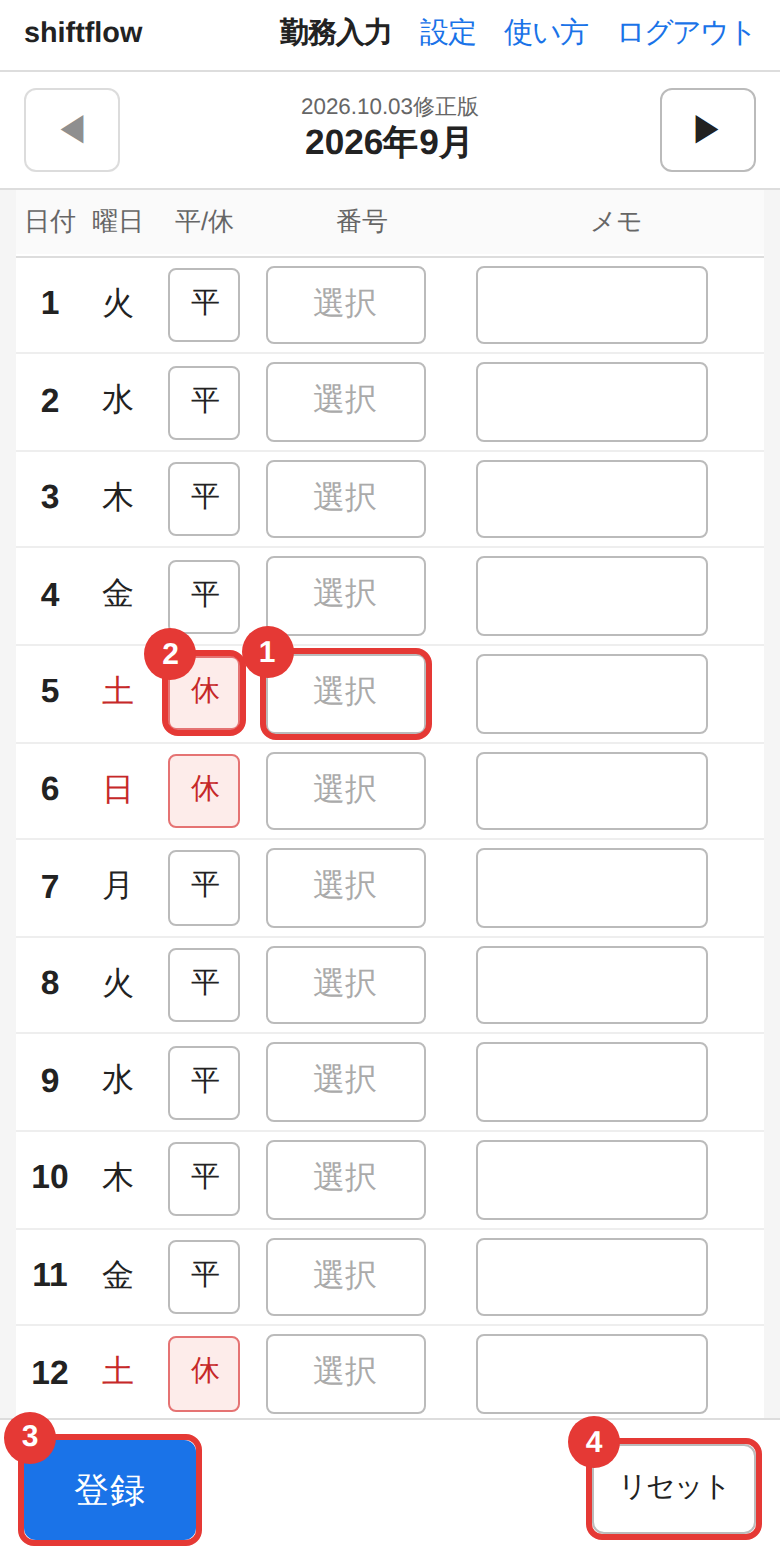
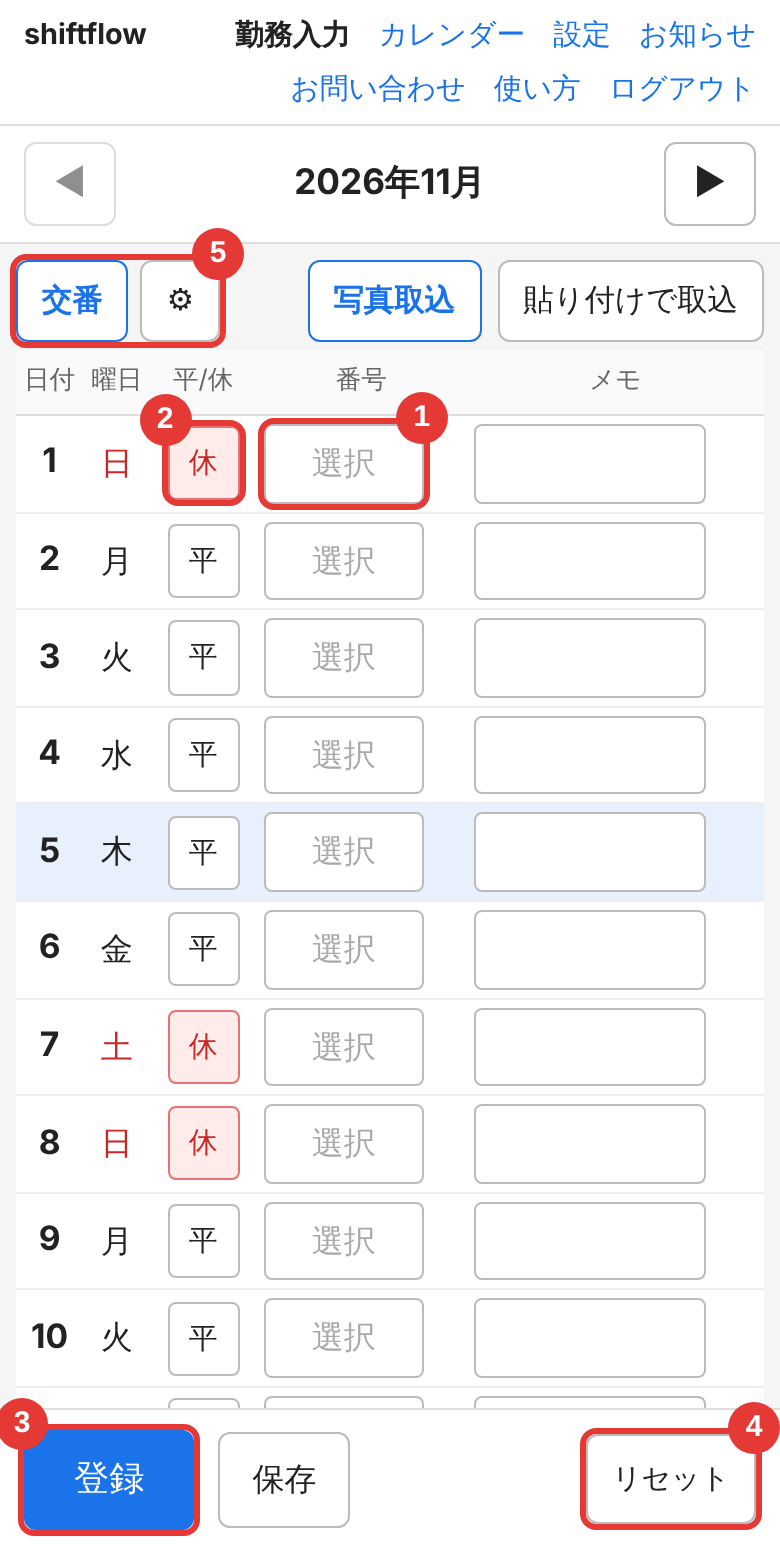
使い方: 勤務入力の画面の画像を今の画面で撮り直し(5 交番・⚙)、交番の注意を2つ足した
Claude-Session: https://claude.ai/code/session_01V7L8wUWKcet42whVXJBbYM

diff --git a/web/help.html b/web/help.html
@@ -99,7 +99,7 @@
         <tr><td>登録</td><td>Googleカレンダーにも登録する設定の人だけに出ます。保存と同時に、Googleカレンダーにも予定を入れます</td></tr>
         <tr><td><span class="n">4</span> リセット</td><td>選んだ月の入力内容を空にします(Googleに登録している人は、Googleカレンダーの予定も消します)</td></tr>
         <tr><td>写真取込</td><td>勤務指定表の写真から、自分の行を読み取って入れます。<b>Claude(AI)のアプリとアカウントが必要です</b>(下の「勤務表の写真から取り込む」)</td></tr>
-        <tr><td>交番・⚙</td><td>「⚙」で交番の自分の休みを1回入れておくと、「交番」で表示している月に休みが入ります(下の「交番から休みを入れる」)</td></tr>
+        <tr><td><span class="n">5</span> 交番・⚙</td><td>「⚙」で交番の自分の休みを1回入れておくと、「交番」で表示している月に休みが入ります(下の「交番から休みを入れる」)</td></tr>
       </table>
       <div class="note">
         <b>同じ月は、何度保存・登録し直しても構いません。</b>Googleカレンダーに登録する人は、このアプリが作った予定だけを消して、作り直します。手で入れた予定は消えません。<br>
@@ -219,6 +219,8 @@
   <ul>
     <li><b>休みの日だけ上書き</b>します。ほかの日(自分で入れた行路など)はそのままです</li>
     <li>前の日が泊の日(非番)には入れません</li>
+    <li>まだ「⚙」で休みを入れていないときは、「交番」を押すと「⚙」が開きます</li>
+    <li>予備の月で「何もしない」にした月は、「交番」を押しても何も入りません</li>
     <li>休みは<b>交番</b>から入れてください。実際の勤務指定表(年休などが入っている)から入れると、次の月からずれます</li>
     <li>ダイヤ改正などで交番の並びが変わったら、「⚙」で入れ直してください</li>
   </ul>
